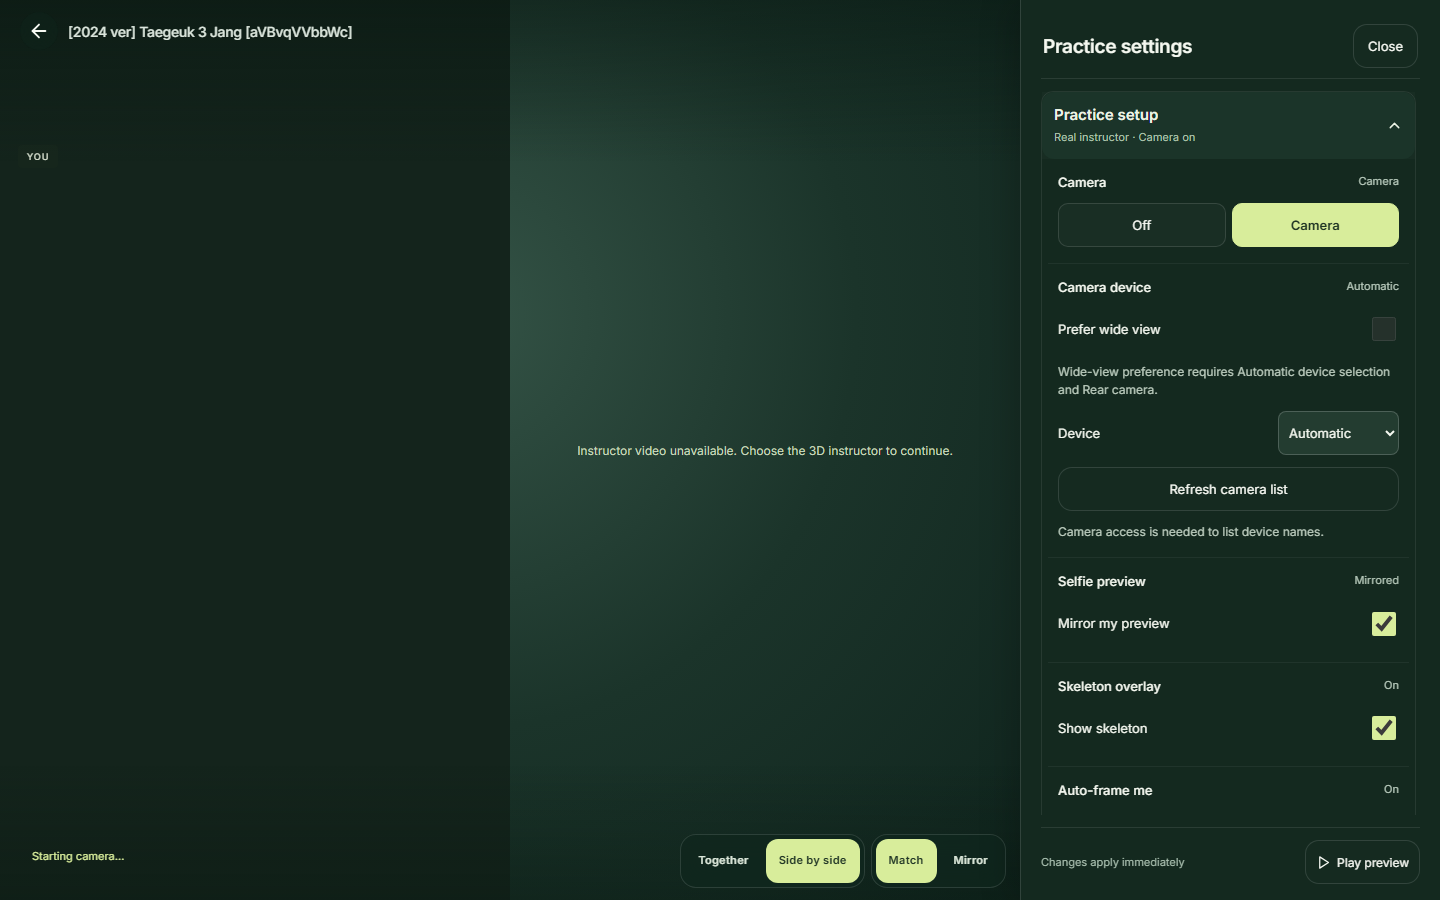
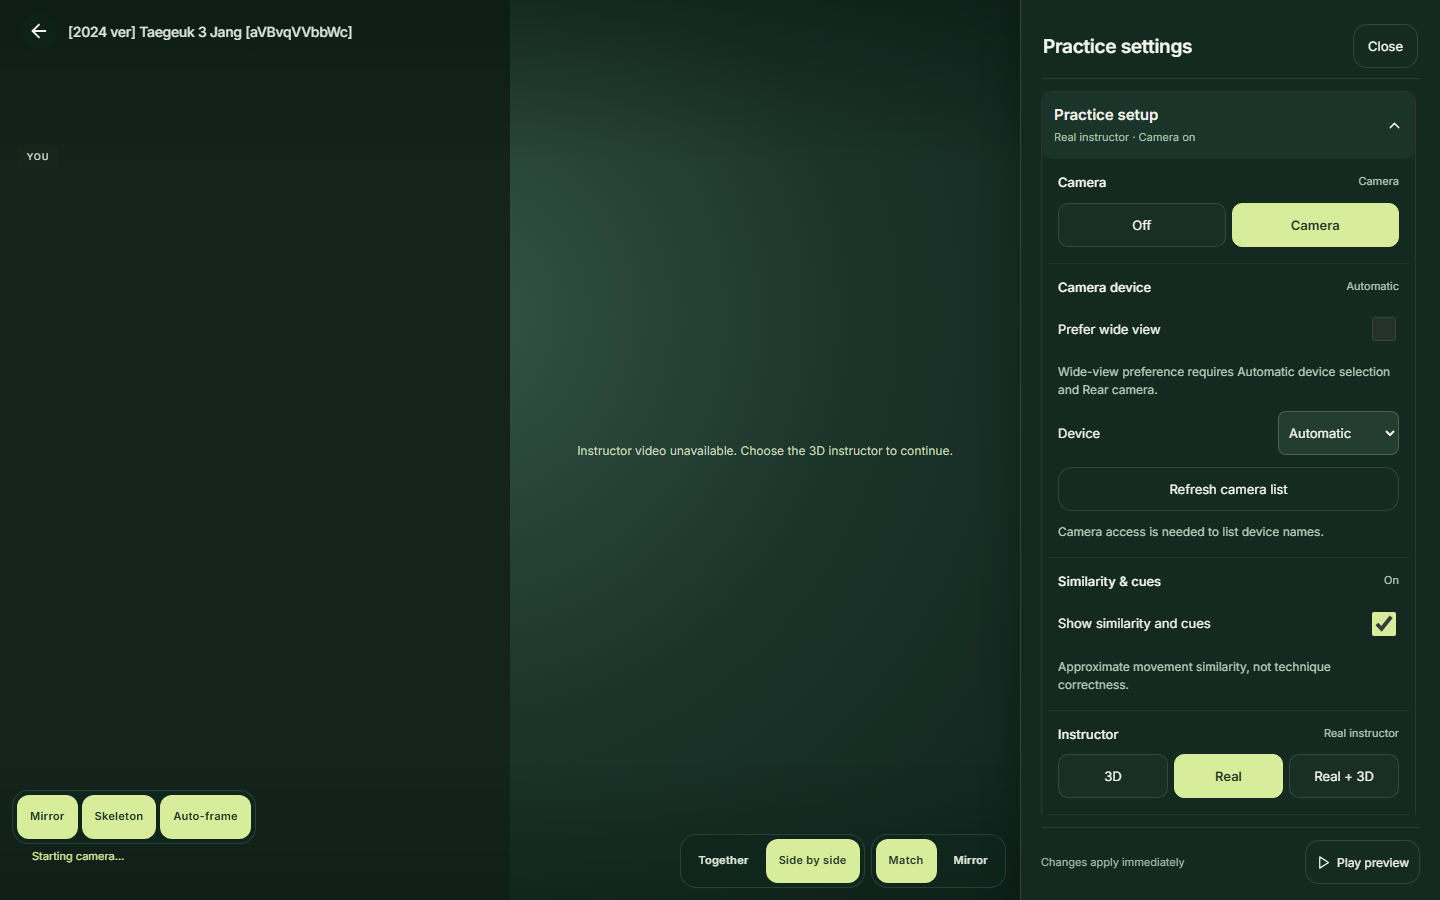
Show camera setup settings only when applicable

diff --git a/apps/web/src/MimicInterface.tsx b/apps/web/src/MimicInterface.tsx
@@ -465,14 +465,16 @@ export const MimicInterface=forwardRef<MimicHandle,{lesson:LessonManifest;player
     <button onClick={()=>void refreshCameras()}>Refresh camera list</button>
     {resources.current.selection?<p>Using {describeCamera(resources.current.selection)}.</p>:<p>Camera access is needed to list device names.</p>}
    </SettingsRow>
-   <SettingsRow id="camera-setup" label="Position & height matching" value={!active?'Camera not started':calibrationEnabled()?resources.current.locked?'Matched':'Not matched':'Default alignment'} status={!active?'Not started':undefined}>
+   {/* Position and height matching belong to the setup that runs before practice,
+       so this row only appears when it has a job left: a calibration this server
+       actually performs, or the reachability confirmation a rear camera requires. */}
+   {(!calibrationEnabled()&&currentFacing()!=='environment')?null:<SettingsRow id="camera-setup" label="Position & height matching" value={!active?'Camera not started':calibrationEnabled()?resources.current.locked?'Matched':'Not matched':'Default alignment'} status={!active?'Not started':undefined}>
     <button onClick={()=>{if(onRequestSetup){close();onRequestSetup();}else if(active){beginCalibration();close();}else void start('camera');}}>Set up camera</button>
-    {active&&<button onClick={stop}>End practice</button>}
     <label>I can see the instructor and operate controls<input type="checkbox" disabled={currentFacing()!=='environment'} checked={controlsConfirmed} onChange={event=>setControlsConfirmed(event.target.checked)}/></label>
     <p>{currentFacing()==='environment'?'Rear camera requires confirmation that controls are reachable.':'Control-reach confirmation is only required for Rear camera.'}</p>
     {!calibrationEnabled()&&<p>Height matching is unavailable. Default alignment is used.</p>}
     {!competition&&import.meta.env.DEV&&new URLSearchParams(location.search).get('diagnostics')==='1'&&lesson.source_video&&<button onClick={()=>{void start('recorded');close();}}>Recorded source test</button>}
-   </SettingsRow>
+   </SettingsRow>}
    <SettingsRow id="feedback" label="Similarity & cues" value={feedback?'On':'Off'} disabledReason={competition?'Challenge requires camera scoring.':angle!==0?'Comparison is paused at this angle. Choose Front above to resume.':undefined} status={competition?'Fixed':angle!==0?'Paused':undefined}>
     <label>Show similarity and cues<input type="checkbox" role="switch" checked={feedback} onChange={event=>setFeedback(event.target.checked)}/></label><p>Approximate movement similarity, not technique correctness.</p>
    </SettingsRow>

diff --git a/docs/practice-and-compete.md b/docs/practice-and-compete.md
@@ -20,7 +20,9 @@ The Practice settings drawer is a side panel rather than a modal one. Its scrim 
 
 ## Camera
 
-Camera feedback is one control, not two. The Practice setup group offers Off, Front and Rear: Off means instructor-only practice, while Front or Rear enable camera feedback and pick that feed. Choosing Off stops the camera, any recording and screen sharing. Choosing Front or Rear opens that camera immediately, so the stage shows the real arrangement — camera pane, instructor and preview — while settings are still open, and practice stays paused until Play. Everything that only refines the chosen feed — Camera device, Position and height matching and Similarity and cues — sits directly under the Camera row, so camera settings follow the camera choice and instructor settings follow the Instructor row. The preview overlays are not panel rows at all: mirroring, the skeleton and auto-frame sit on the camera pane itself, just under the feed they change, so their effect is visible while they are toggled. Auto-frame stays disabled there unless the front camera and Side by side are both active.
+Camera feedback is one control, not two. The Practice setup group offers Off, Front and Rear: Off means instructor-only practice, while Front or Rear enable camera feedback and pick that feed. Choosing Off stops the camera, any recording and screen sharing. Choosing Front or Rear opens that camera immediately, so the stage shows the real arrangement — camera pane, instructor and preview — while settings are still open, and practice stays paused until Play. Everything that only refines the chosen feed — Camera device and Similarity and cues — sits directly under the Camera row, so camera settings follow the camera choice and instructor settings follow the Instructor row. The preview overlays are not panel rows at all: mirroring, the skeleton and auto-frame sit on the camera pane itself, just under the feed they change, so their effect is visible while they are toggled. Auto-frame stays disabled there unless the front camera and Side by side are both active.
+
+Position and height matching is not a permanent row. Setup runs before practice begins, so the row only appears when it still has a job: a server that performs height calibration, or a rear camera whose reachability must be confirmed. With calibration off and a front camera the row is absent, and the duplicate "End practice" it used to carry is gone — the dock owns that action.
 
 Which choices appear follows evidence, not the platform. Only a device label or a live track may claim a direction: counting cameras is not evidence, because a desktop can expose several video inputs that are all the same physical self camera (a virtual camera, an IR camera, a capture card), and a phone's labels are unreadable until permission is granted. Until a direction is proven the feed is offered as a neutral Camera, so a desktop never shows a Rear choice it cannot honour; a phone gains Front and Rear once its labels are readable, which happens as soon as a camera opens. The list is re-read when a camera starts and when the hardware changes. A saved rear preference is not rewritten when detection is inconclusive; the row falls back to Camera for display only.
 
